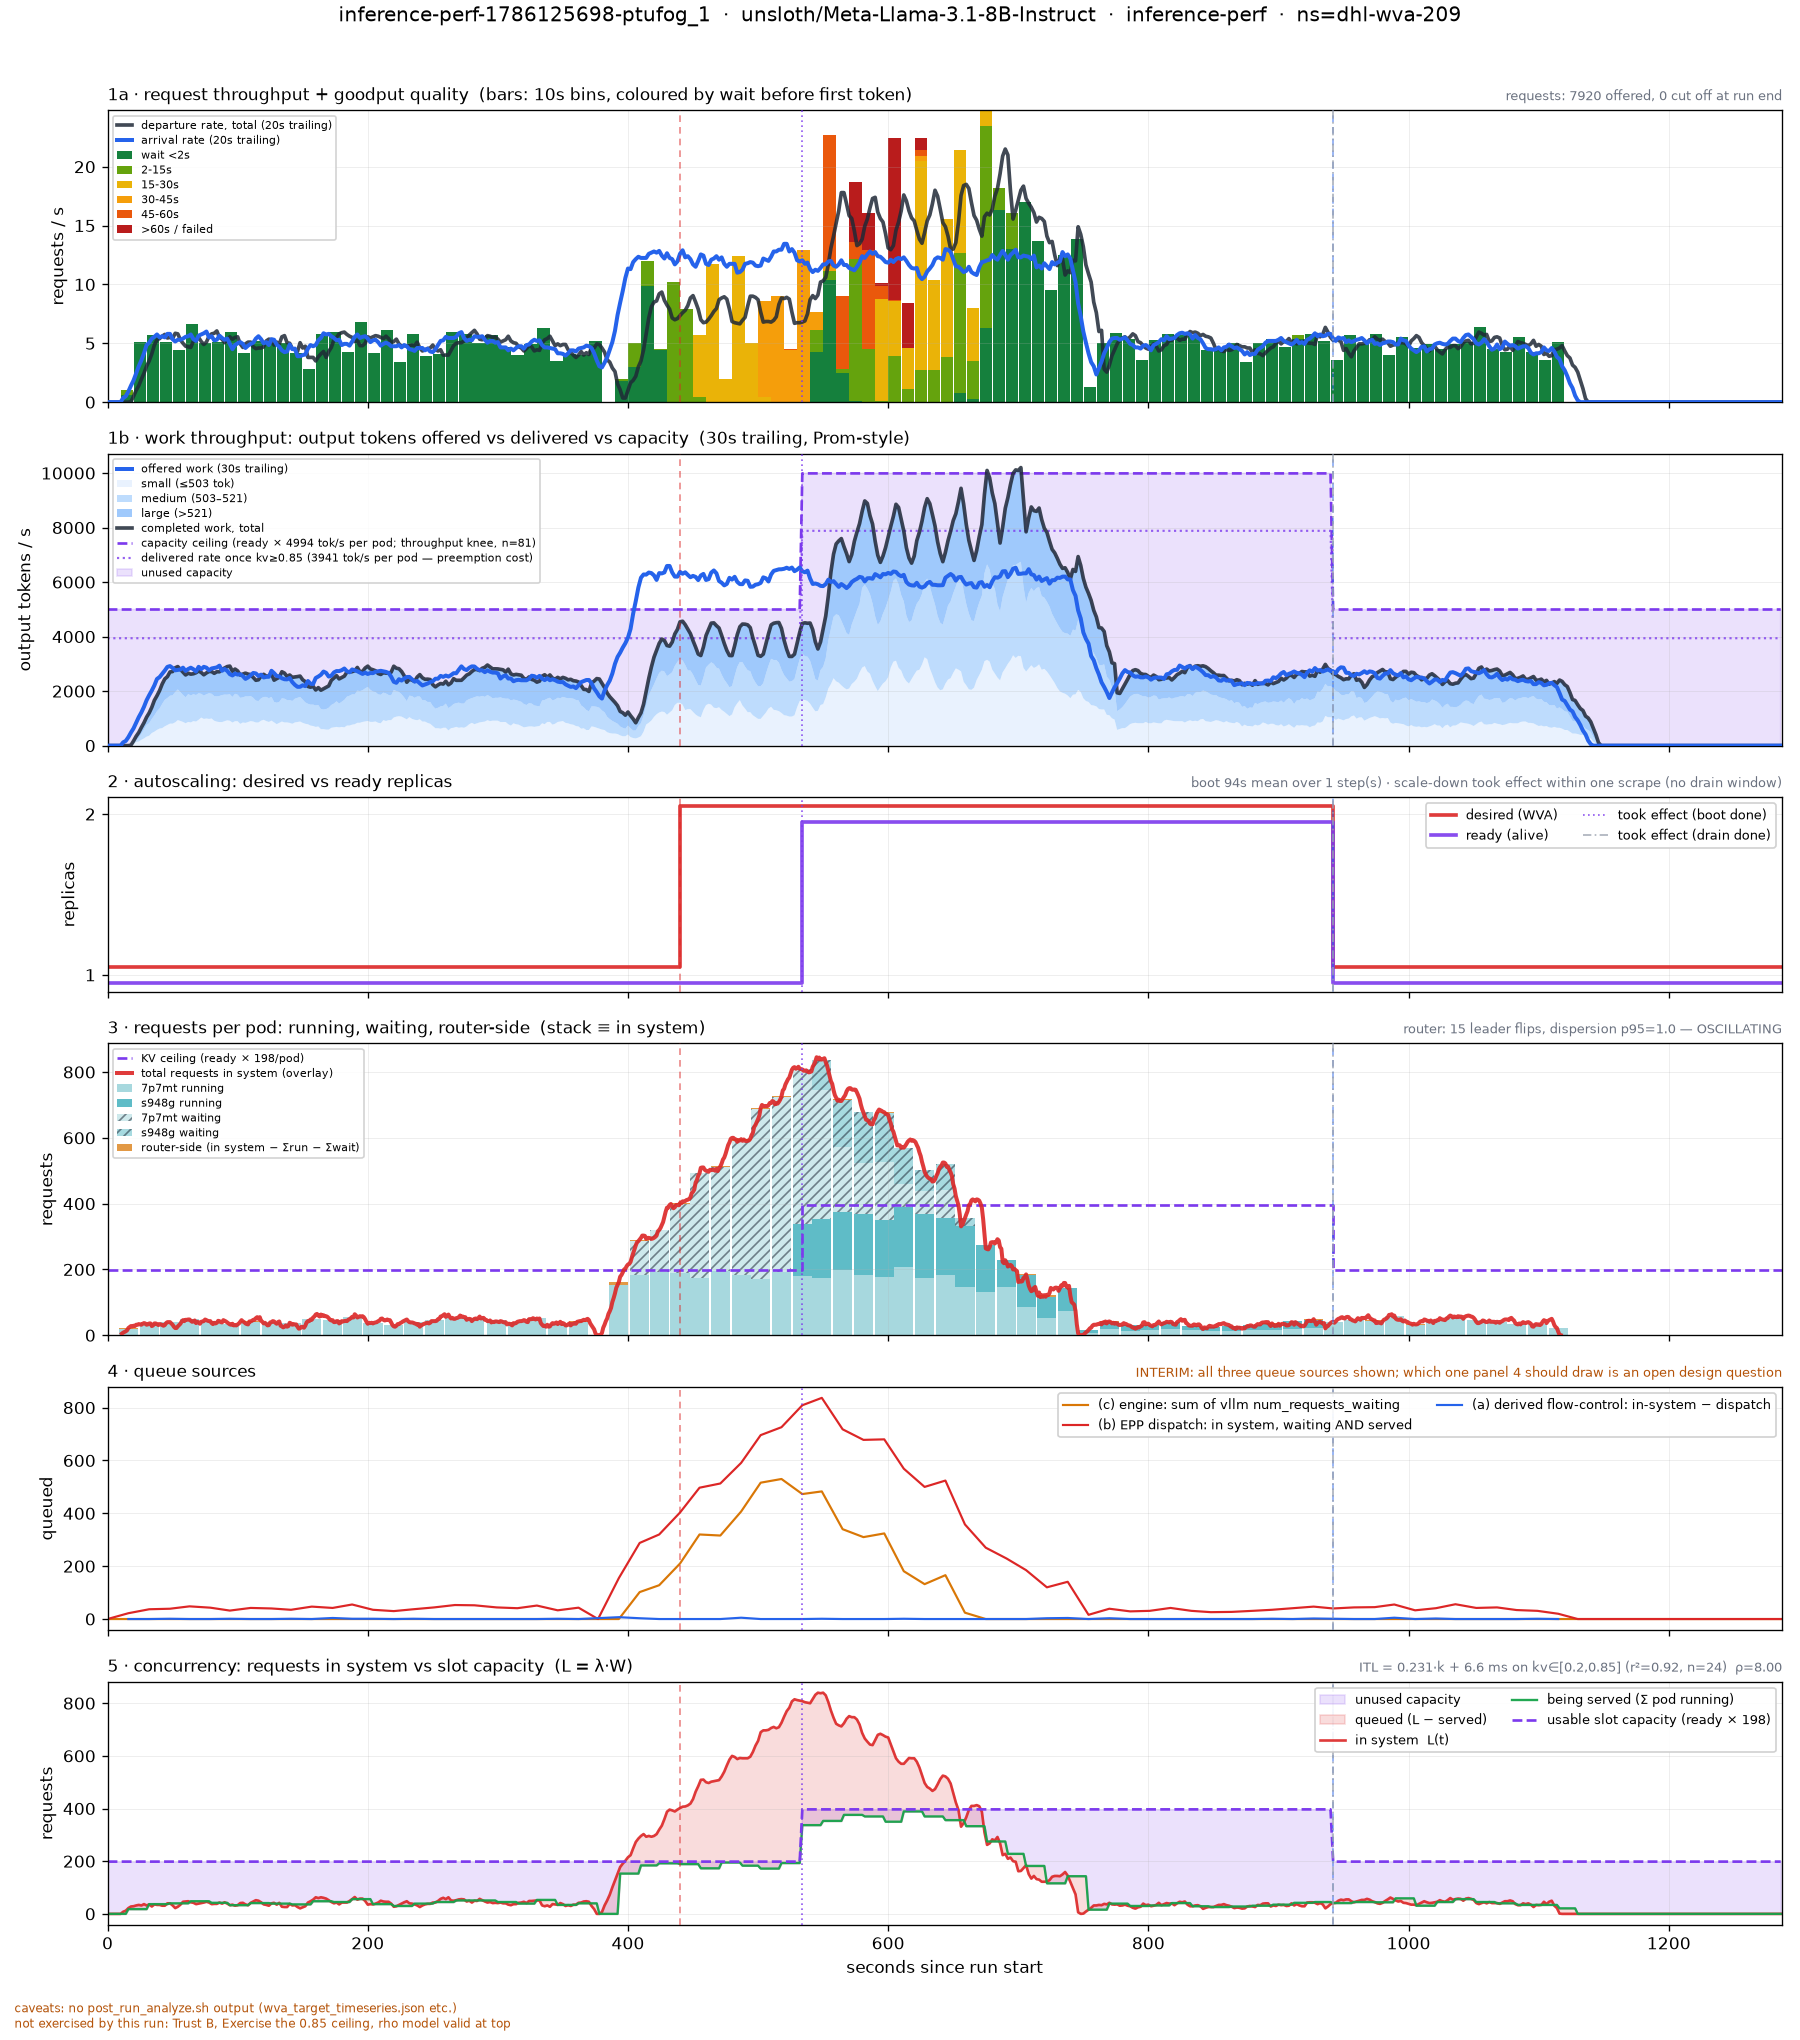
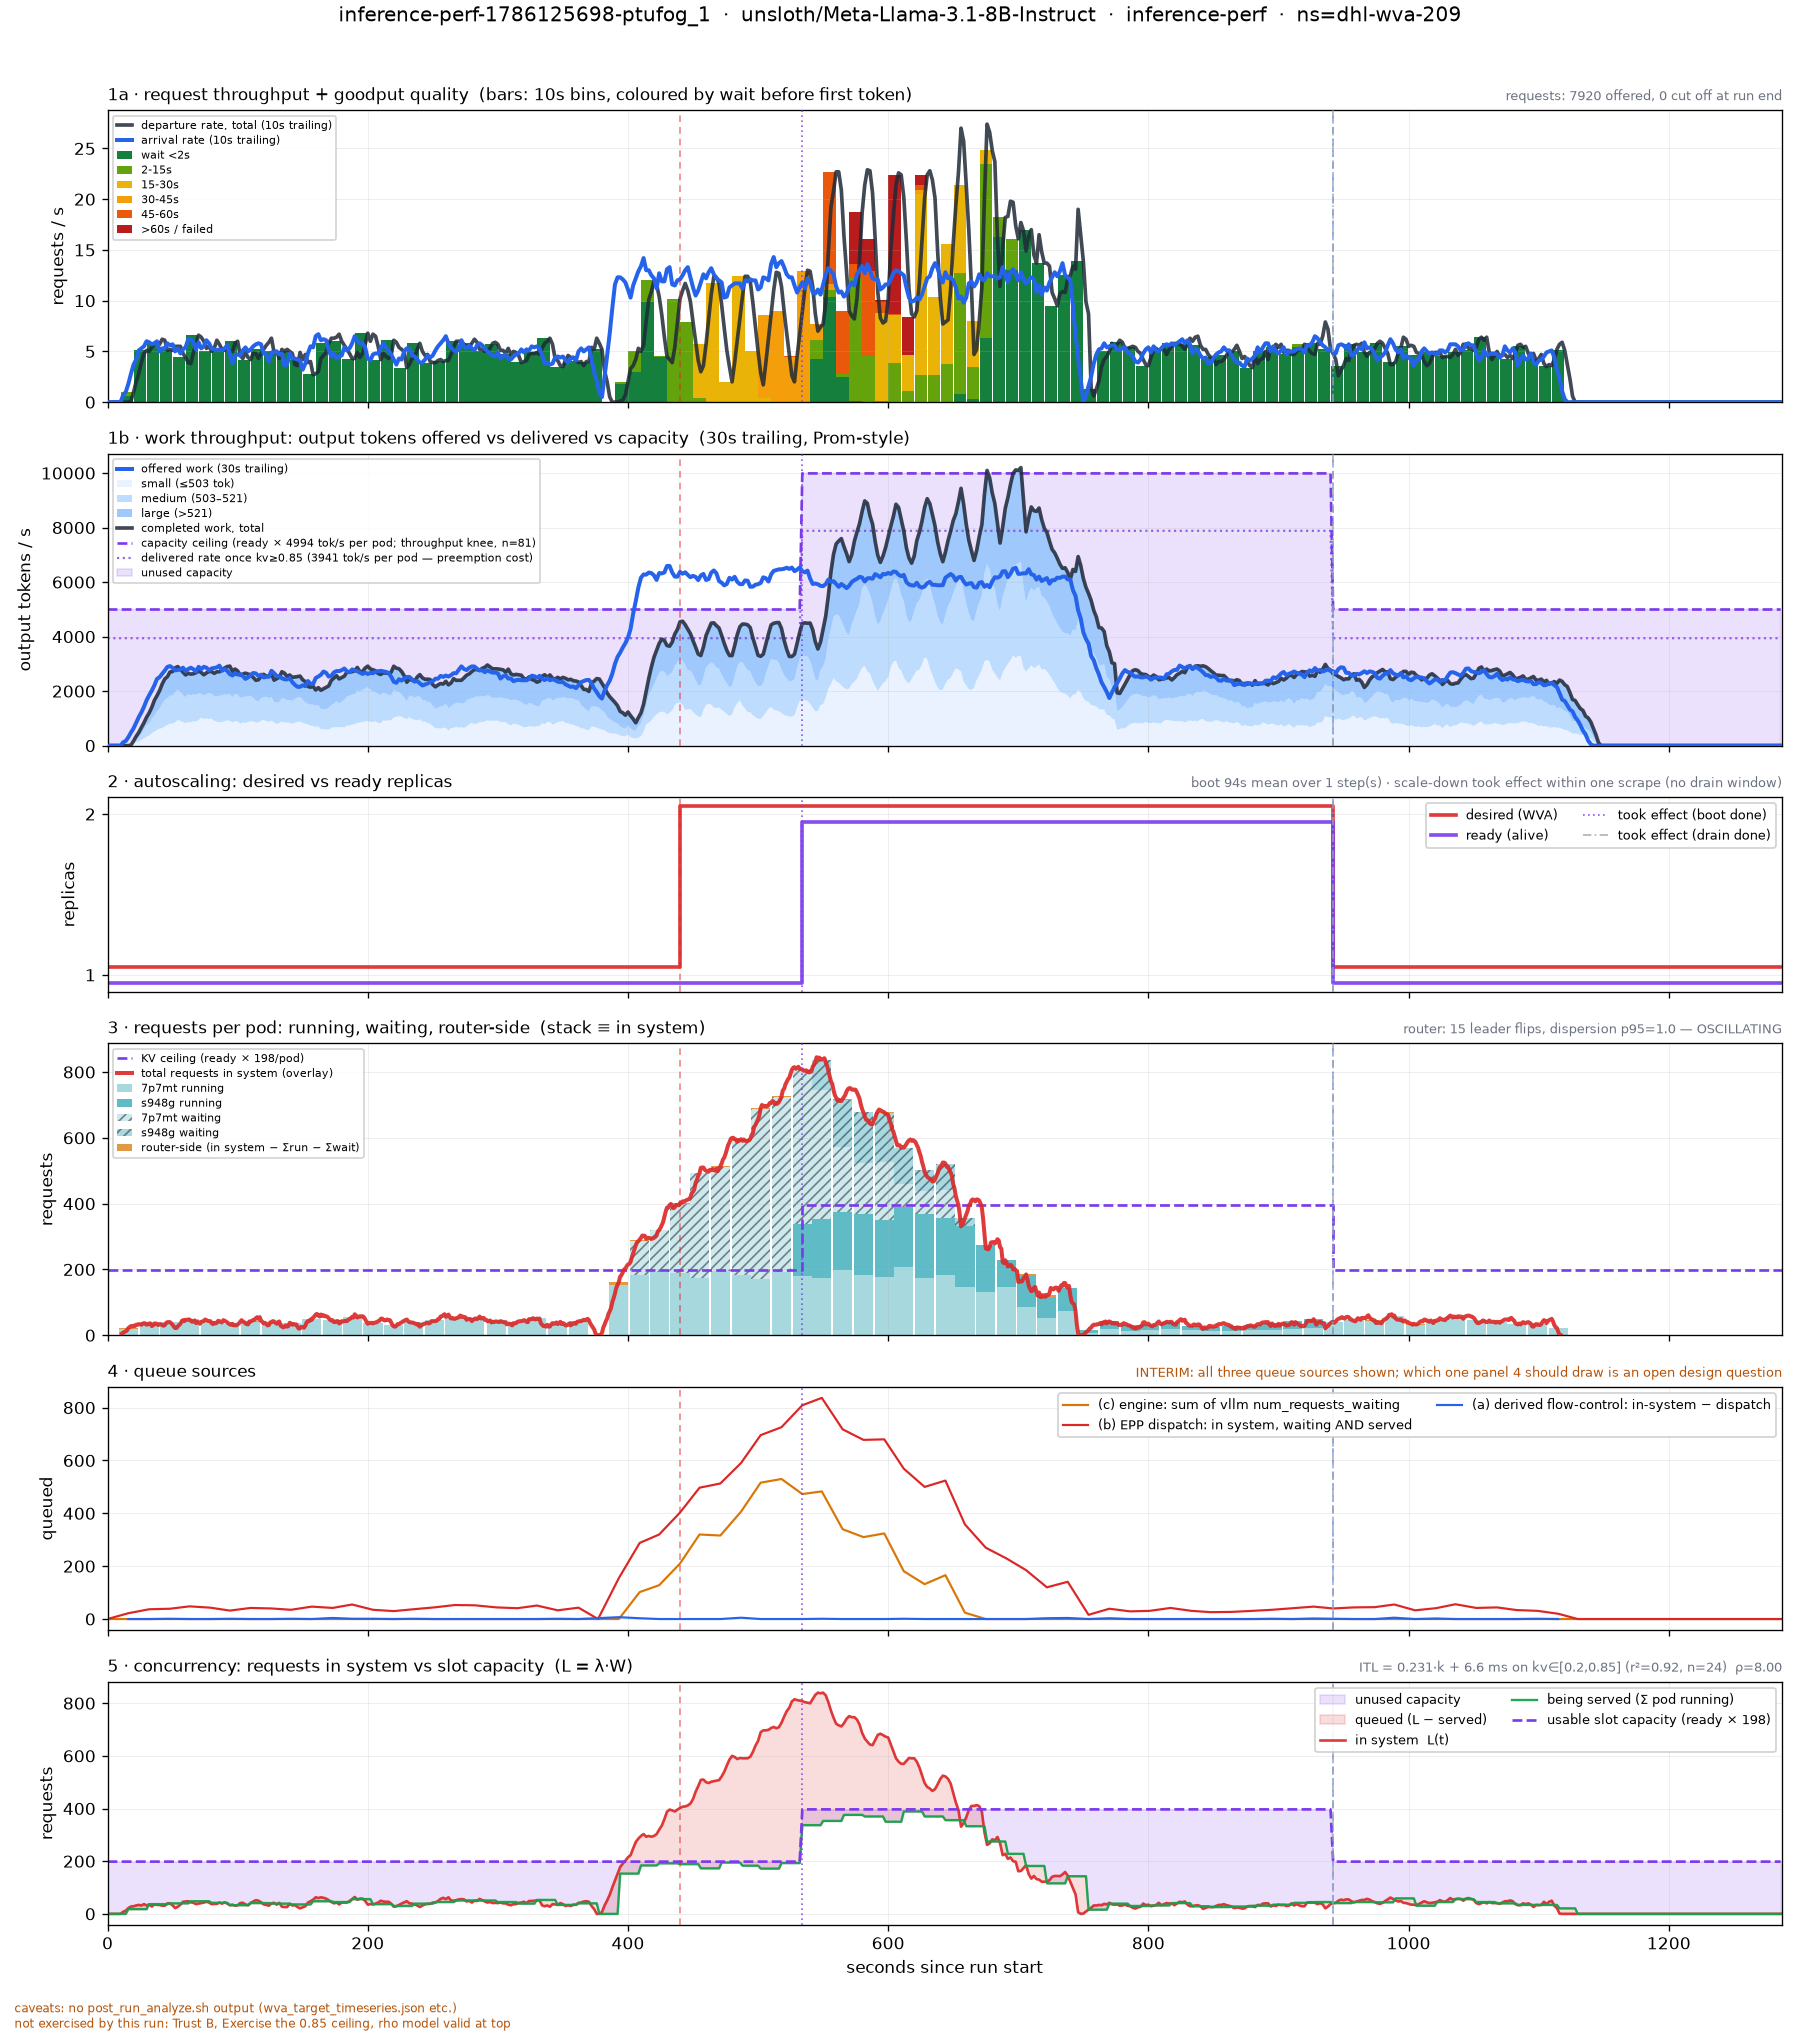
viz(real-trace): pin panel 1a's trailing window to the bar width
The bars and the dark curve are the same events (t_dep) -- wait time only sets a
bar segment's colour -- but they were different estimators: 10 s hard bins under
a 20 s trailing average. A 20 s average of 10 s bins sits at the mean of each
adjacent pair, so in the mid stage the curve read ~12 req/s beneath a 24 req/s
bar and looked like it contradicted them. Setting W_REQ = BIN makes the curve
equal each bar exactly at that bar's right edge, which is the "curve connecting
the tops of the bars" that was asked for.

Worse, 20 s was exactly the period of the thing it was averaging. Departures here
are not Poisson: output lengths are near-monodisperse (IQR 26 tok, 5% of the
median), so a cohort admitted to the decode batch together finishes together and
the freed slots admit the next cohort, sustaining a ~20 s wave. On the mid stage
adjacent 10 s bins are uncorrelated (r=-0.03) while bins 20 s apart correlate
+0.59. The old window was averaging over exactly one cycle -- annihilating the
one structure the bars were showing.

Also correct the comment on BIN. Bins narrower than the batch period do not
alternate "between a burst and zero"; nothing in the mid stage is close to zero
(median inter-departure gap 0.030 s, 20 gaps over 1 s in 4036 departures). What
they do is exaggerate the wave's amplitude: peak-to-trough spread is 64x at 5 s
bins, 12x at 10 s, 2.7x at 20 s. 10 s keeps the wave legible without either
inflating it or passing it off as noise.

Changed region(s): [[0.0622, 0.0618, 0.8711, 0.1853]]

diff --git a/render_real_trace.py b/render_real_trace.py
@@ -13,8 +13,13 @@ What is deliberately different from the synthetic figure:
   * Rates use a trailing (Prometheus-style) window, not hard bins. Hard bins
     attribute a request's whole output to its completion instant, which turns a
     backlog drain into an impossible burst -- panel 1b showed a 0<->17000 tok/s
-    sawtooth that was pure bin attribution. Panel 1a keeps its 5 s bars for the
-    quality composition, with the trailing total drawn over them.
+    sawtooth that was pure bin attribution. Panel 1a keeps bars for the quality
+    composition, with the trailing total drawn over them; its window is pinned to
+    the bar width (W_REQ = BIN) so the curve and the bars are the SAME estimator
+    at the same resolution and the curve rides the bar tops. A wider window there
+    reads as a contradiction: a 20 s trailing average over 10 s bars sits at the
+    mean of each adjacent pair, which in this run's mid stage is ~12 req/s under
+    a 24 req/s bar.
   * Work is measured in OUTPUT TOKENS only. That is the unit the measured
     saturation ceiling (`sat_band.gen_tok_s`) is expressed in; there is no
     calibrated prefill+decode ceiling to compare a combined figure against.
@@ -63,12 +68,16 @@ except ImportError:      # shareable standalone: fall back to the same hex value
 INK = '#1f2937'                 # the sim's stack-top outline colour
 
 WAIT_EDGES = [2, 15, 30, 45, 60]        # absolute wait-before-service seconds
-# Panel 1a bar width. Not smaller than the decode batch period: vLLM finishes a
-# batch nearly in lockstep, so bins narrower than that alternate between a burst
-# and zero, and the bar tops then sit far above any honest average of them.
+# Panel 1a bar width. Departures in this workload are not Poisson: output lengths
+# are near-monodisperse (IQR 26 tok = 5% of the median), so a cohort admitted to
+# the decode batch together finishes together and the freed slots admit the next
+# cohort, which sustains a ~20 s wave. Measured on the mid stage: adjacent 10 s
+# bins are uncorrelated (r=-0.03) while bins 20 s apart correlate +0.59. The
+# resulting peak-to-trough spread is 64x at 5 s bins, 12x at 10 s, 2.7x at 20 s.
+# 10 s keeps the wave legible without pretending it is noise.
 BIN = 10.0
 GRID = 2.0                               # resampling step for every smooth curve
-W_REQ = 20.0                             # trailing window for request rates
+W_REQ = BIN                              # trailing window for request rates
 W_WORK = 30.0                            # trailing window for work rates
 
 
@@ -270,10 +279,12 @@ def render(bundle, path, title=None, coverage=None):
                   color=GP_COLORS[min(i, len(GP_COLORS) - 1)],
                   label=labels[min(i, len(labels) - 1)], zorder=1)
             bottom = [b + v for b, v in zip(bottom, ys2)]
-        # total departure rate as a smooth trailing curve THROUGH the bar tops --
-        # the bars carry the composition, this carries the trend. Same dark ink as
-        # the synthetic figure's stack-top outline, but weighted to be readable
-        # against 5 s bars rather than a continuous stack.
+        # Total departure rate as a trailing curve THROUGH the bar tops: the bars
+        # carry the composition, this carries the total. Same events (t_dep) and,
+        # because W_REQ == BIN, the same estimator -- so at each bin's right edge
+        # the curve equals that bar exactly and it weaves between them in the
+        # middle. Wait time sets a bar segment's COLOUR, never its height or x.
+        # Same dark ink as the synthetic figure's stack-top outline.
         a.plot(grid, trailing(dep_t, [1.0] * len(dep_t), grid, W_REQ),
                color=INK, lw=2.2, alpha=0.85, zorder=2.6,
                label=f'departure rate, total ({W_REQ:.0f}s trailing)')
